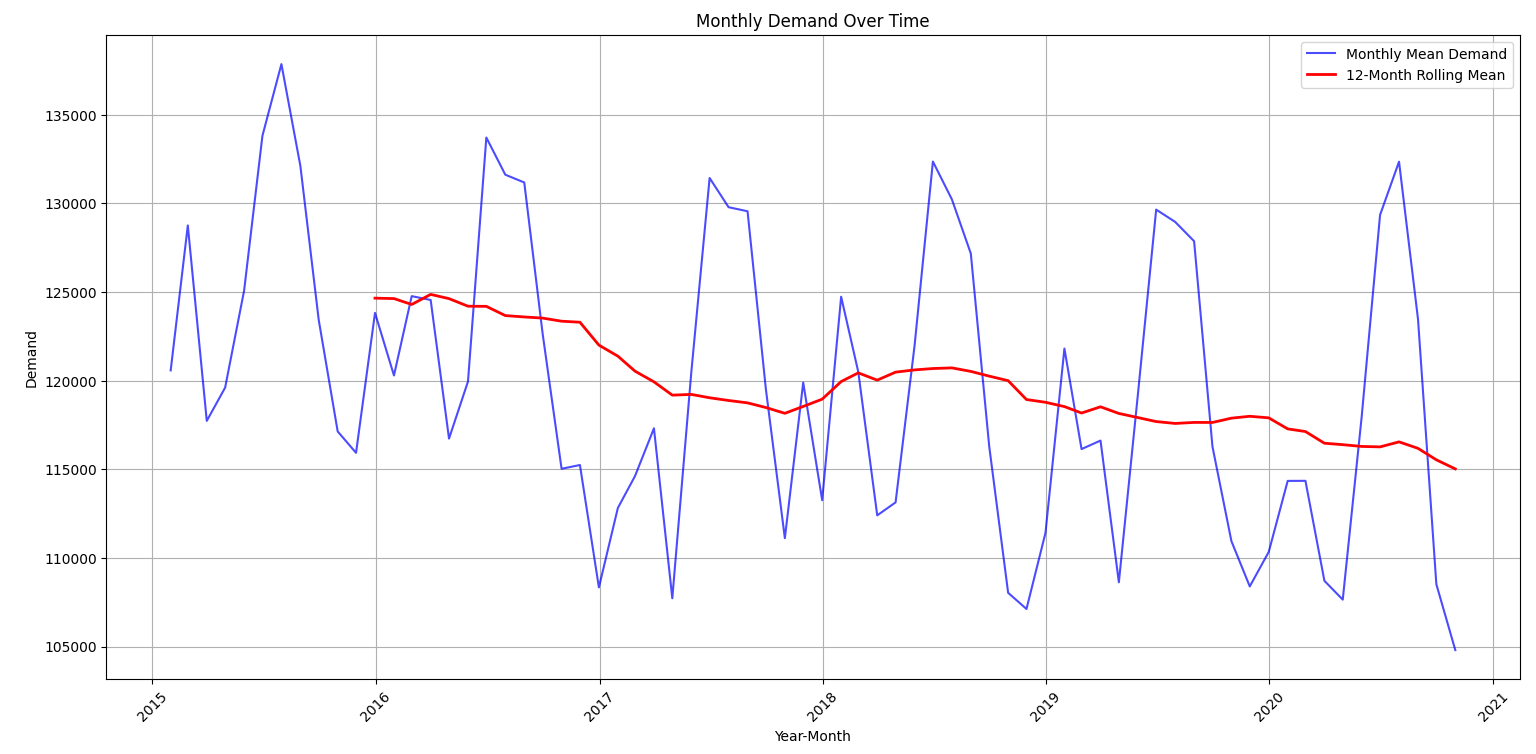
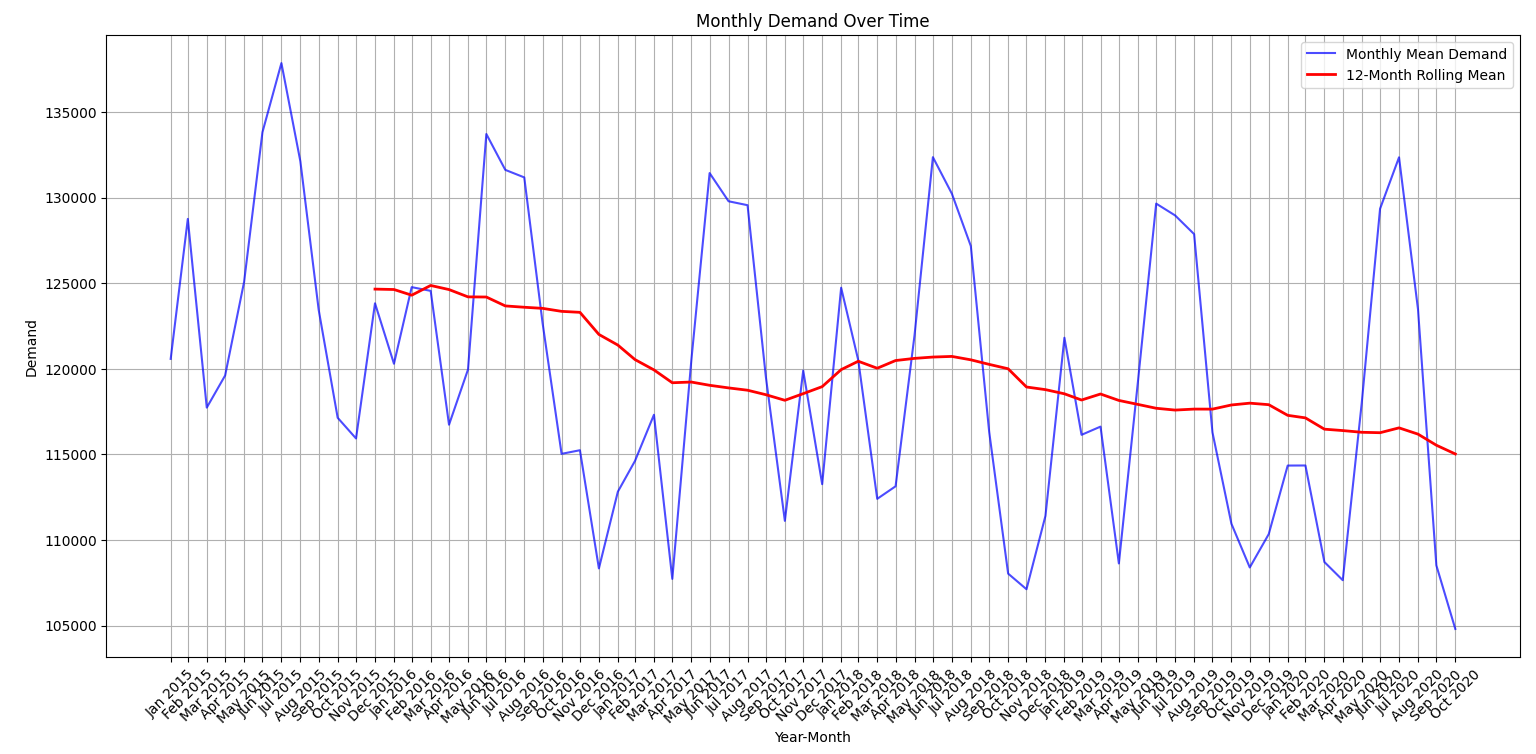
update data resampling to monthly frequency and adjust visualization accordingly

diff --git a/python.py b/python.py
@@ -57,8 +57,8 @@ df_cleaned = df_cleaned.drop_duplicates()
 # Convert a column to a specific data type (e.g., 'date' column to datetime)
 df_cleaned['date'] = pd.to_datetime(df_cleaned['date'], format='%d-%m-%Y', dayfirst=True)
 
-# Resample the data to yearly frequency and calculate the mean for numeric columns only
-df_yearly = df_cleaned.resample('Y', on='date').mean(numeric_only=True)
+# Resample the data to monthly frequency and calculate the mean for numeric columns only
+df_monthly = df_cleaned.resample('M', on='date').mean(numeric_only=True)
 
 # 4. Handling Outliers
 # Select only numeric columns for quantile calculation
@@ -121,14 +121,14 @@ plt.xlabel('Demand')
 plt.ylabel('RRP')
 plt.show()
 
-# Line plot of yearly demand over time
+# Line plot of monthly demand over time with month names on x-axis
 plt.figure(figsize=(14, 8))
-plt.plot(df_yearly.index, df_yearly['demand'], linestyle='-', color='blue', alpha=0.7, label='Yearly Mean Demand')
-plt.plot(df_yearly.index, df_yearly['demand'].rolling(window=2).mean(), color='red', linewidth=2, label='2-Year Rolling Mean')
-plt.title('Yearly Demand Over Time')
-plt.xlabel('Year')
+plt.plot(df_monthly.index, df_monthly['demand'], linestyle='-', color='blue', alpha=0.7, label='Monthly Mean Demand')
+plt.plot(df_monthly.index, df_monthly['demand'].rolling(window=12).mean(), color='red', linewidth=2, label='12-Month Rolling Mean')
+plt.title('Monthly Demand Over Time')
+plt.xlabel('Year-Month')
 plt.ylabel('Demand')
-plt.xticks(rotation=45)
+plt.xticks(df_monthly.index, df_monthly.index.strftime('%b %Y'), rotation=45)
 plt.grid(True)
 plt.legend()
 plt.tight_layout()
